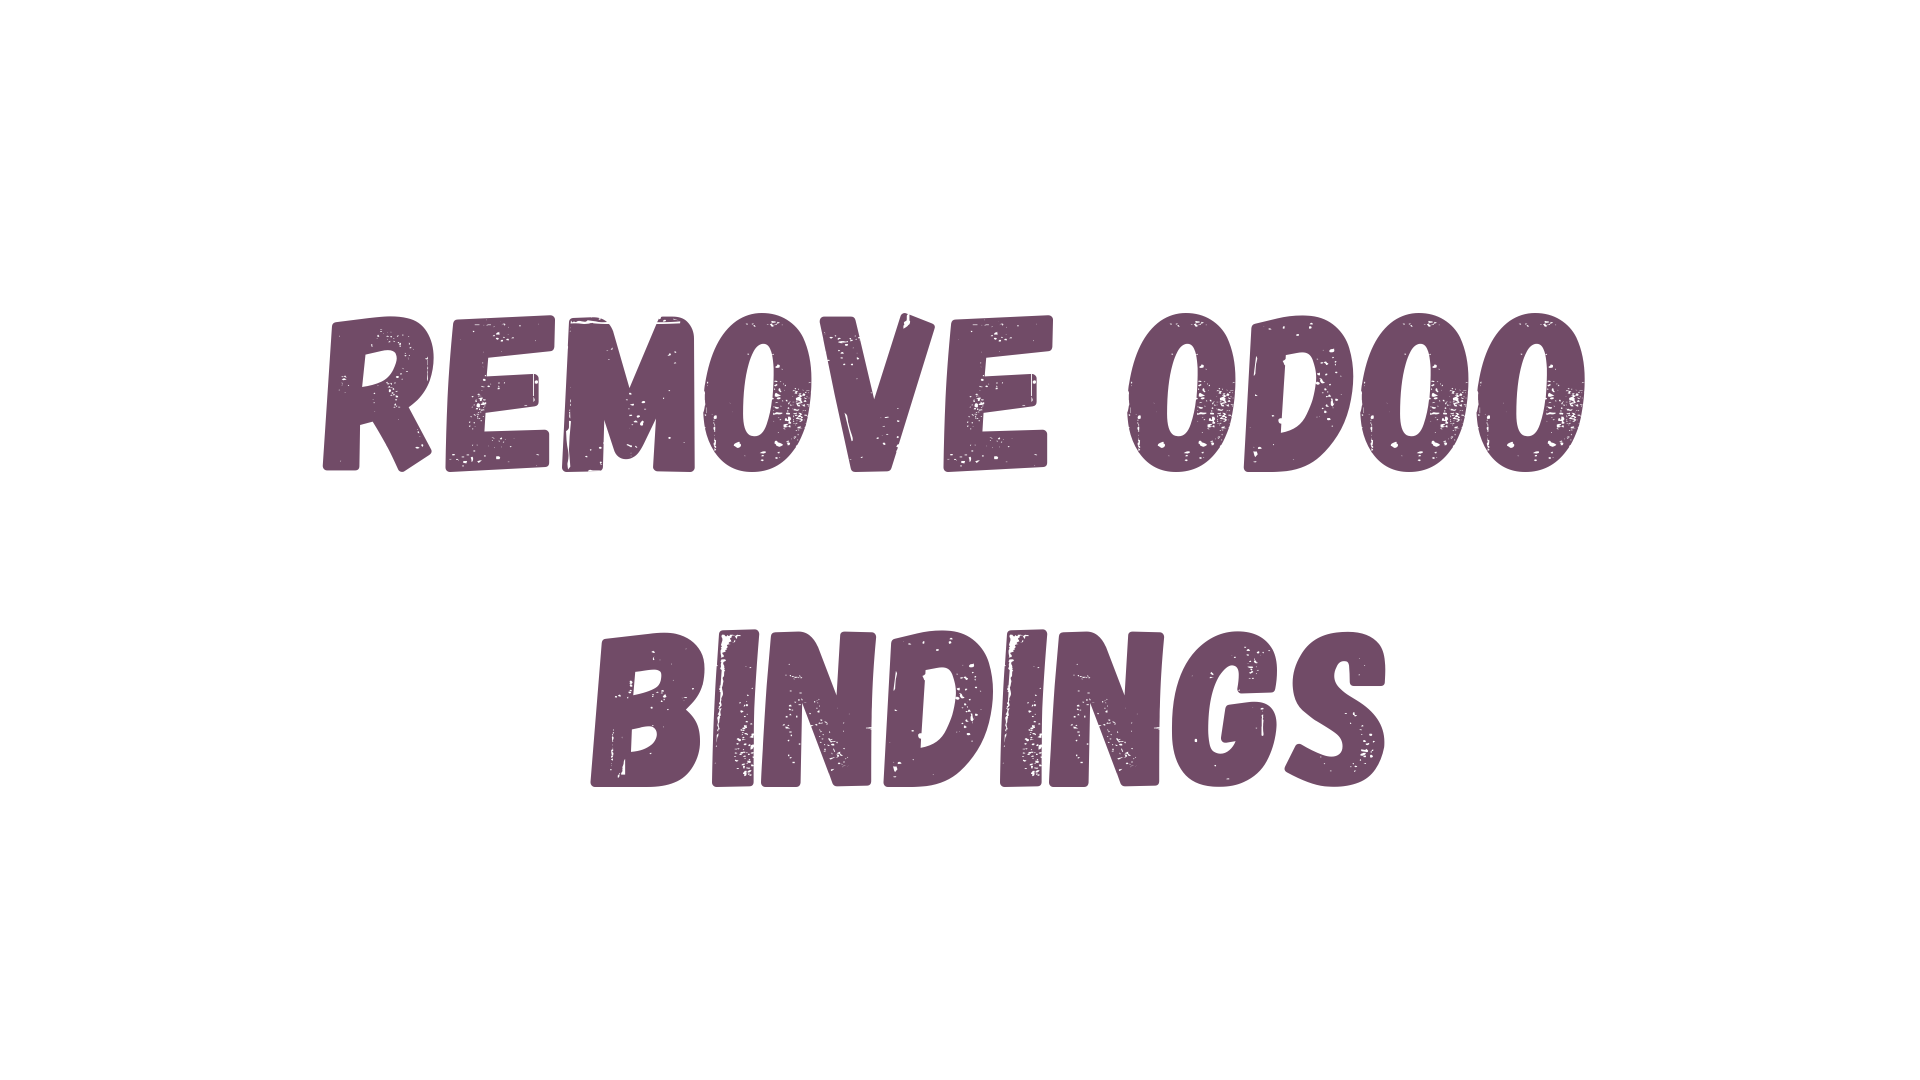
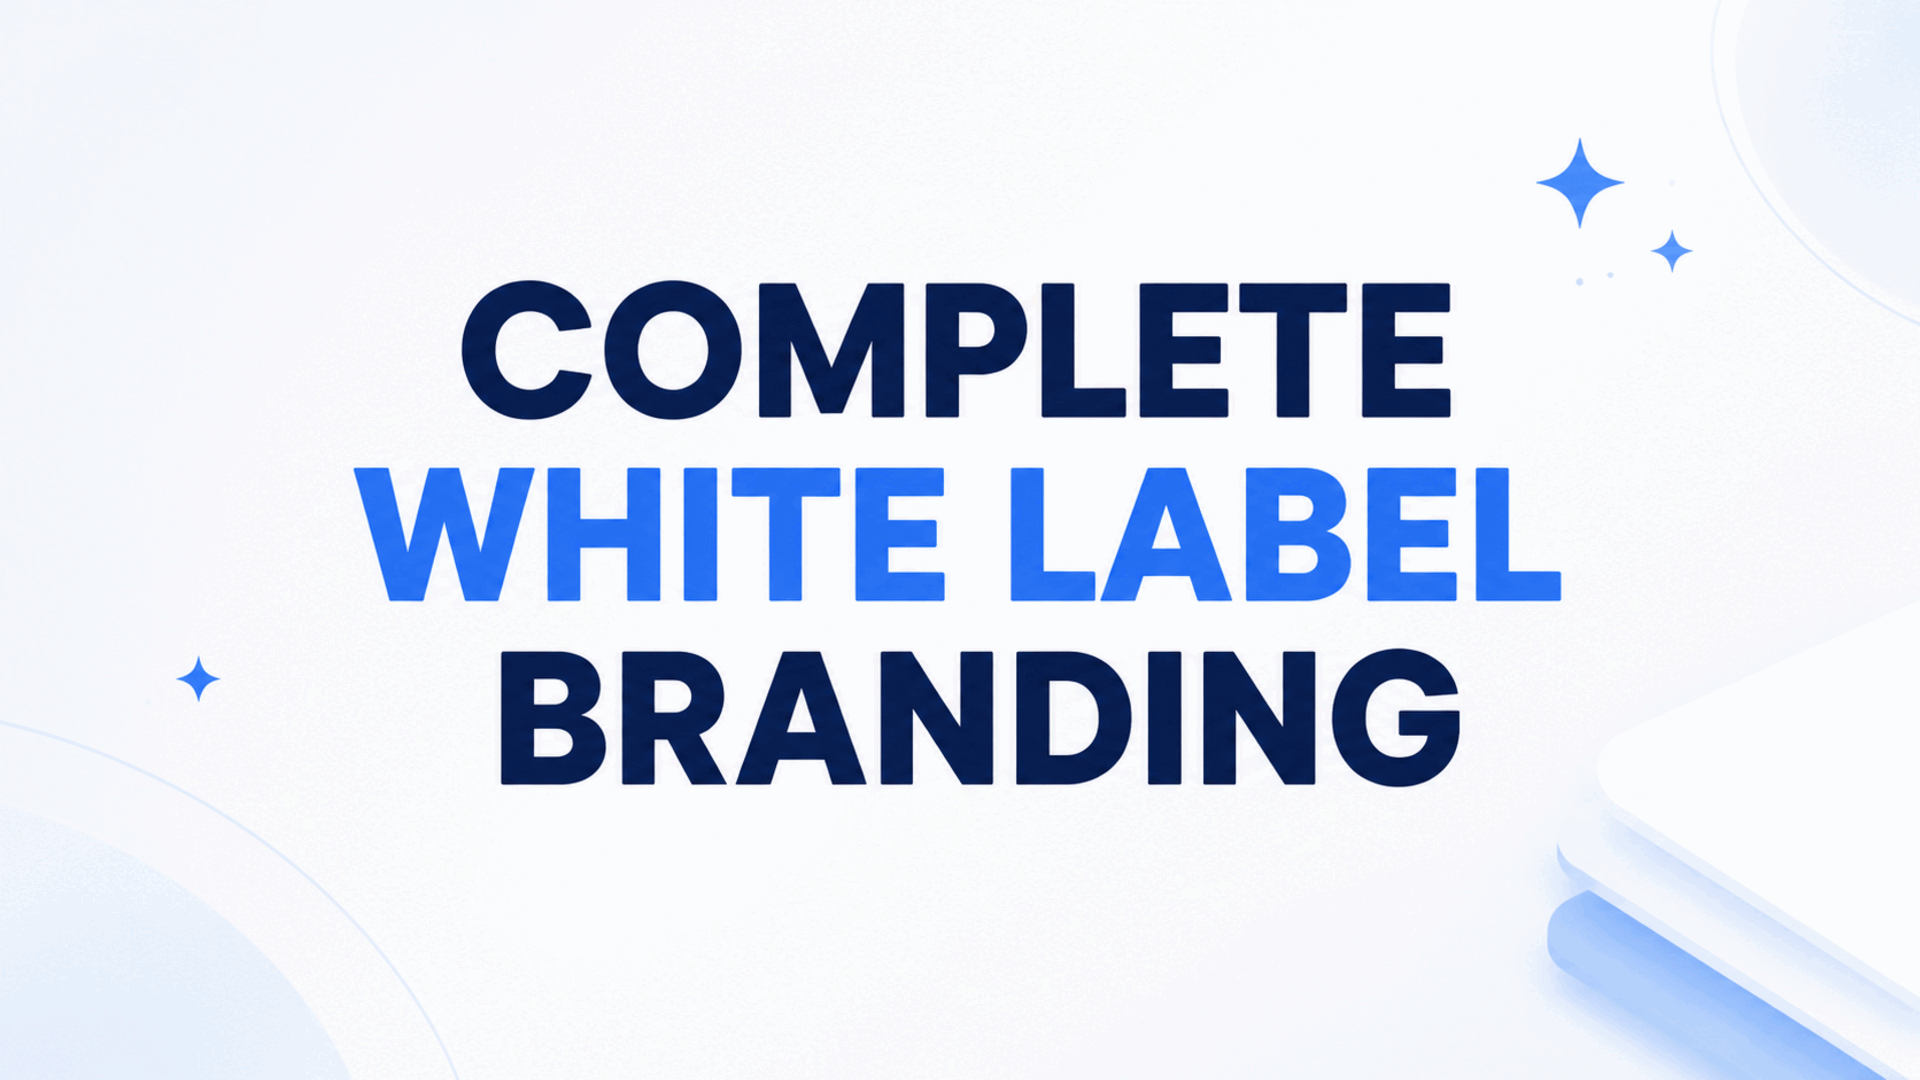
fix: validate Odoo 17 white-label integration

diff --git a/remove_odoo_bindings/static/description/index.html b/remove_odoo_bindings/static/description/index.html
@@ -1,45 +1,45 @@
 <section class="oe_container">
     <div class="oe_row oe_spaced text-center">
         <div class="oe_span12">
-            <h2 class="oe_slogan" style="color:#875A7B; font-size: 2em; margin-bottom: 20px;">Remove Odoo Bindings & Systray Icons</h2>
+            <h2 class="oe_slogan">Complete White Label Branding for Odoo 17</h2>
+            <h3 class="oe_slogan">Your product identity, from login to backend URL</h3>
+            <p class="oe_mt32">
+                Replace visible vendor promotion with your own product name, favicon,
+                colors, links, browser metadata, email footers, and assistant identity.
+            </p>
         </div>
-        <div class="oe_span12">
-            <div class="oe_demo oe_screenshot" style="display: inline-block; margin: 10px;">
-                <img src="screenshot2.jpg" alt="Before" style="width: 100%; max-width: 350px; border: 1px solid #ddd; border-radius: 4px; padding: 5px;" />
-                <p><strong>Before</strong></p>
-            </div>
-            <div class="oe_demo oe_screenshot" style="display: inline-block; margin: 10px;">
-                <img src="screenshot1.jpg" alt="After" style="width: 100%; max-width: 350px; border: 1px solid #ddd; border-radius: 4px; padding: 5px;" />
-                <p><strong>After</strong></p>
-            </div>
-        </div>
-
-        <div class="oe_span12">
-            <div class="oe_demo oe_screenshot" style="display: inline-block; margin: 10px;">
-                <img src="screenshot3.jpg" alt="Before" style="width: 100%; max-width: 350px; border: 1px solid #ddd; border-radius: 4px; padding: 5px;" />
-                <p><strong>Before</strong></p>
-            </div>
-            <div class="oe_demo oe_screenshot" style="display: inline-block; margin: 10px;">
-                <img src="screenshot4.jpg" alt="After" style="width: 100%; max-width: 350px; border: 1px solid #ddd; border-radius: 4px; padding: 5px;" />
-                <p><strong>After</strong></p>
-            </div>
-        </div>
-
-        <div class="oe_span12">
-            <div class="oe_demo oe_screenshot" style="display: inline-block; margin: 10px;">
-                <img src="screenshot5.jpg" alt="Before" style="width: 100%; max-width: 350px; border: 1px solid #ddd; border-radius: 4px; padding: 5px;" />
-                <p><strong>Before</strong></p>
-            </div>
-            <div class="oe_demo oe_screenshot" style="display: inline-block; margin: 10px;">
-                <img src="screenshot6.jpg" alt="After" style="width: 100%; max-width: 350px; border: 1px solid #ddd; border-radius: 4px; padding: 5px;" />
-                <p><strong>After</strong></p>
-            </div>
-        </div>
-
     </div>
 </section>
 
-<div class="oe_row oe_spaced text-center">
-    <a class="fa fa-envelope" href="mailto:sanjanatrishan@gmail.com">Contact Support</a>
-</div>
+<section class="oe_container oe_dark">
+    <div class="oe_row oe_spaced">
+        <div class="oe_span4">
+            <h3>Brand identity</h3>
+            <p>Configure a product name, primary color, favicon, support links, and custom footers.</p>
+        </div>
+        <div class="oe_span4">
+            <h3>Clean backend</h3>
+            <p>Remove vendor account, support, app-store, import, error-dialog, and systray branding.</p>
+        </div>
+        <div class="oe_span4">
+            <h3>Editable URL slug</h3>
+            <p>Use a validated entry path such as <code>/erp</code> instead of <code>/web</code>.</p>
+        </div>
+    </div>
+</section>
+
+<section class="oe_container">
+    <div class="oe_row oe_spaced text-center">
+        <div class="oe_span12">
+            <img class="oe_picture oe_screenshot" src="banner.png" alt="Complete White Label Branding settings"/>
+        </div>
+    </div>
+</section>
+
+<section class="oe_container">
+    <div class="oe_row oe_spaced text-center">
+        <div class="oe_span12">
+            <a class="btn btn-primary" href="mailto:sanjanatrishan@gmail.com">Contact Support</a>
+        </div>
+    </div>
 </section>

diff --git a/remove_odoo_bindings/tests/test_white_label.py b/remove_odoo_bindings/tests/test_white_label.py
@@ -1,0 +1,77 @@
+from odoo.exceptions import ValidationError
+from odoo.tests import TransactionCase, tagged
+
+
+@tagged("post_install", "-at_install")
+class TestWhiteLabelBranding(TransactionCase):
+    def test_install_defaults_are_applied(self):
+        parameters = self.env["ir.config_parameter"].sudo()
+
+        self.assertEqual(
+            parameters.get_param("remove_odoo_bindings.backend_slug"), "erp"
+        )
+        self.assertEqual(
+            parameters.get_param("remove_odoo_bindings.hide_app_store"), "True"
+        )
+        self.assertEqual(self.env.ref("base.partner_root").name, "Assistant")
+
+    def test_company_branding_values(self):
+        company = self.env["res.company"].create(
+            {
+                "name": "Example Company",
+                "white_label_brand_name": "Example Suite",
+                "white_label_primary_color": "#123ABC",
+                "white_label_support_url": "https://support.example.com",
+            }
+        )
+
+        values = company._white_label_values()
+
+        self.assertEqual(values["brand_name"], "Example Suite")
+        self.assertEqual(values["primary_color"], "#123ABC")
+        self.assertEqual(values["support_url"], "https://support.example.com")
+
+    def test_rejects_invalid_color(self):
+        with self.assertRaises(ValidationError):
+            self.env["res.company"].create(
+                {
+                    "name": "Invalid Color",
+                    "white_label_primary_color": "blue",
+                }
+            )
+
+    def test_rejects_unsafe_or_incomplete_urls(self):
+        for url in ("javascript:alert(1)", "/relative", "example.com"):
+            with self.subTest(url=url), self.assertRaises(ValidationError):
+                self.env["res.company"].create(
+                    {
+                        "name": "Invalid URL",
+                        "white_label_support_url": url,
+                    }
+                )
+
+    def test_backend_slug_validation(self):
+        settings_model = self.env["res.config.settings"]
+        for slug in ("Odoo", "a", "shop", "bad_slug", " bad"):
+            with self.subTest(slug=slug), self.assertRaises(ValidationError):
+                settings_model.create({"white_label_backend_slug": slug})
+
+        settings = settings_model.create({"white_label_backend_slug": "company-erp"})
+        settings.set_values()
+
+        self.assertEqual(settings.white_label_backend_slug, "company-erp")
+        self.assertEqual(
+            self.env["ir.config_parameter"]
+            .sudo()
+            .get_param("remove_odoo_bindings.backend_slug"),
+            "company-erp",
+        )
+
+    def test_vendor_store_menus_are_blacklisted(self):
+        parameters = self.env["ir.config_parameter"].sudo()
+        parameters.set_param("remove_odoo_bindings.hide_app_store", "True")
+
+        blacklist = self.env["ir.ui.menu"]._load_menus_blacklist()
+
+        self.assertIn(self.env.ref("base.menu_third_party").id, blacklist)
+        self.assertIn(self.env.ref("base.menu_theme_store").id, blacklist)

diff --git a/remove_odoo_bindings/tests/__init__.py b/remove_odoo_bindings/tests/__init__.py
@@ -1,0 +1,1 @@
+from . import test_white_label

diff --git a/remove_odoo_bindings/README.md b/remove_odoo_bindings/README.md
@@ -1,1 +1,44 @@
-# remove_odoo_bindings
+# Complete White Label Branding for Odoo 17
+
+This addon replaces visible vendor branding across the Odoo 17 backend, login,
+emails, PWA metadata, error dialogs, browser titles, support links, import
+screens, and built-in assistant. It also provides a configurable backend entry
+slug, such as `/erp` instead of `/web`.
+
+## Included
+
+- Company-scoped product name, favicon, primary color, support links, and footer text
+- Database-wide backend URL slug with validation and an automatic `/web` redirect
+- Branded browser titles, login pages, offline page, favicon, and PWA manifest
+- Branded transactional email footers and report browser titles
+- Odoo 17 user-menu and systray controls
+- Optional hiding of vendor app-store and theme-store links
+- Automated assistant rename
+- Safe uninstall cleanup and restoration of the default web application name
+
+## Configuration
+
+1. Install **Complete White Label Branding**.
+2. Open **Settings > General Settings > White Label Branding**.
+3. Enter the product identity, links, color, favicon, assistant name, and backend slug.
+4. Save, then reload the browser at the new URL.
+
+The backend slug is database-wide. In multi-database deployments, use a
+database filter or separate host name when different databases require different
+slugs. The old `/web` backend entry redirects to the configured slug; technical
+routes such as `/web/login`, `/web/assets`, and `/web/session` remain available
+because they are part of Odoo 17's web protocol.
+
+## Upgrade notes
+
+Version `17.0.2.0.0` replaces the earlier destructive settings and menu
+overrides with supported Odoo 17 templates, registry keys, routing APIs, PWA
+behavior, and menu hooks. Upgrade the addon after deploying it:
+
+    odoo-bin -d DATABASE -u remove_odoo_bindings --stop-after-init
+
+## Compatibility
+
+- Odoo 17.0 Community and Enterprise
+- Dependencies: `base_setup`, `web`, `mail`, and `base_import`
+- License: LGPL-3
